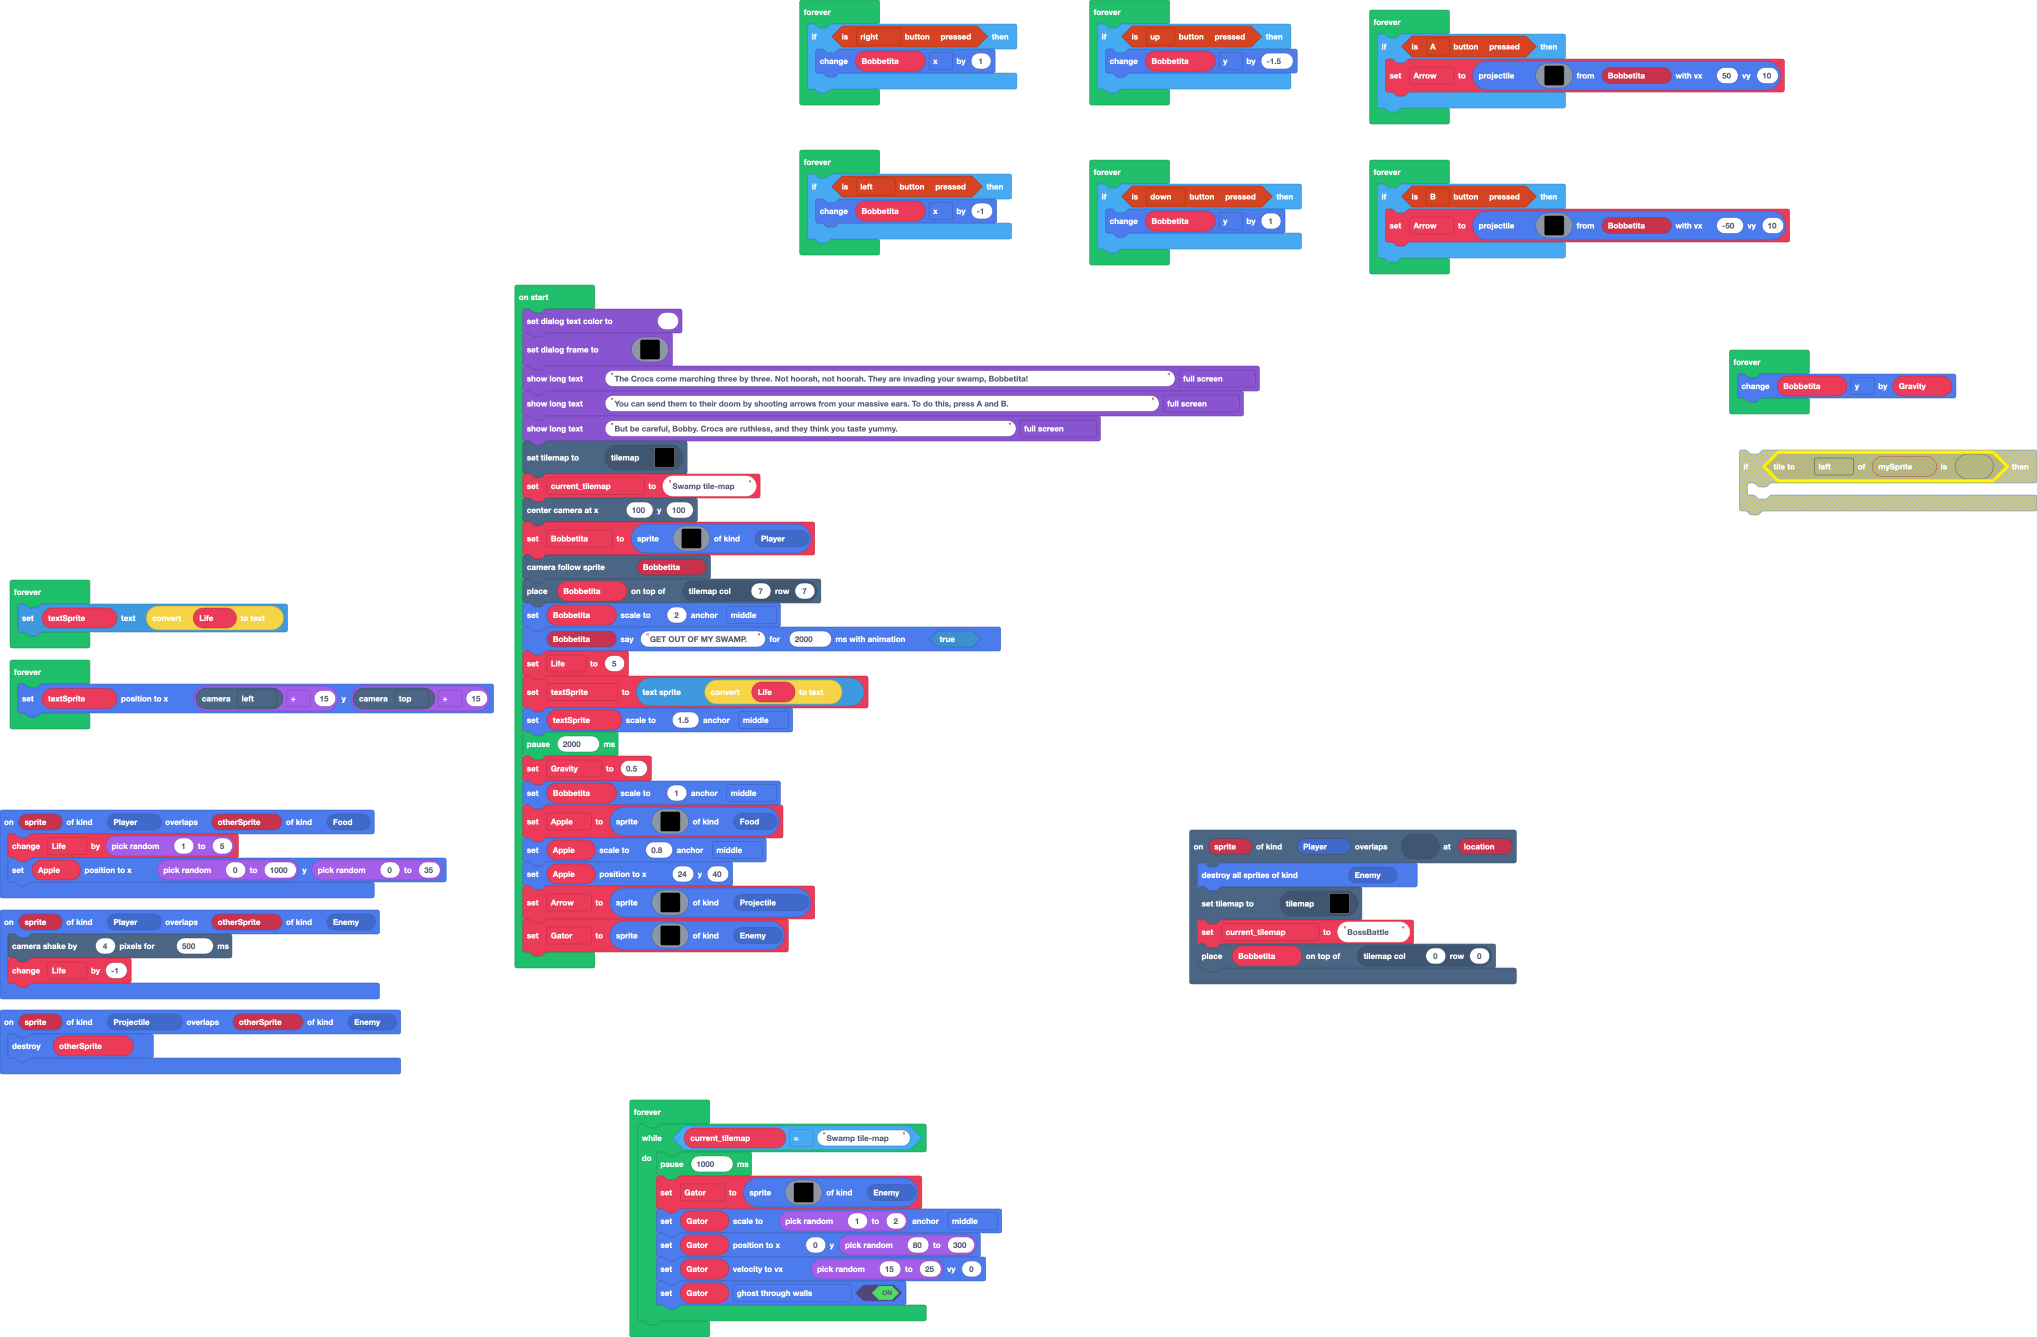
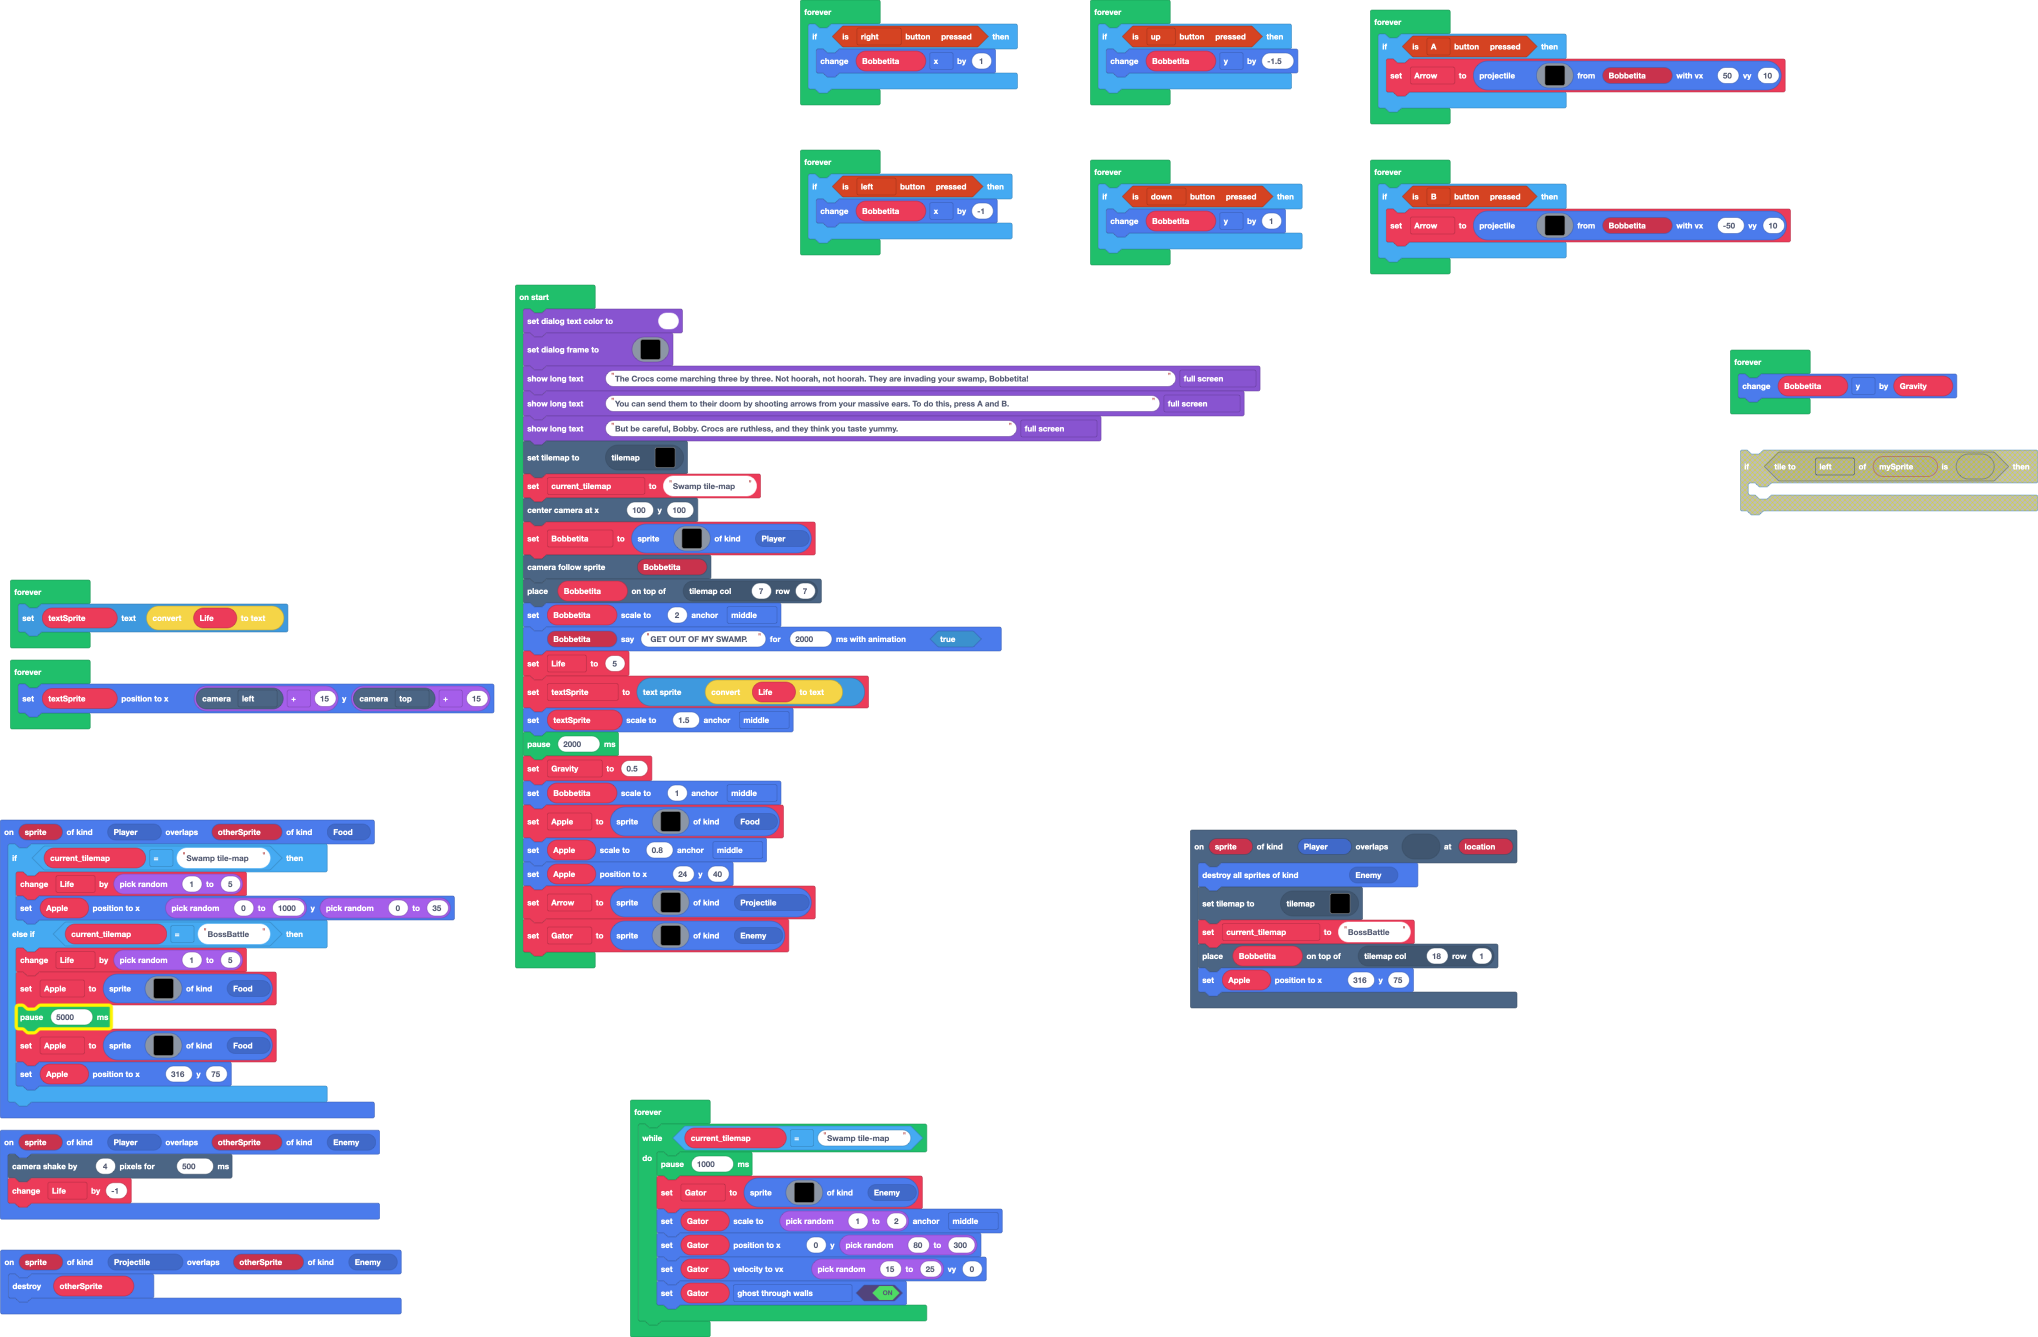
Update main.blocks, main.ts, tilemap.g.jres, tilemap.g.ts, images.g.jres, images.g.ts

diff --git a/tilemap.g.ts b/tilemap.g.ts
@@ -30,6 +30,8 @@ namespace myTiles {
     export const tile20 = image.ofBuffer(hex``);
     //% fixedInstance jres blockIdentity=images._tile
     export const tile1 = image.ofBuffer(hex``);
+    //% fixedInstance jres blockIdentity=images._tile
+    export const tile3 = image.ofBuffer(hex``);
 
     helpers._registerFactory("tilemap", function(name: string) {
         switch(helpers.stringTrim(name)) {
@@ -76,20 +78,20 @@ namespace myTiles {
 . . . . . . . . . . . . . . . . 
 `, [myTiles.transparency16], TileScale.Sixteen);
             case "BossBattle":
[2 lines of base64/hex data omitted]
 2 2 2 2 2 2 2 2 2 2 2 2 2 2 2 2 2 . . . 
+2 . . . . . . . . . . . . . . . 2 . . . 
 2 . . . . . . . . . . . . . . . 2 . . . 
 2 . . . . . . . . . . . . . . . 2 2 2 . 
 2 . . . . . . . . . . . . . . . . . . . 
-2 . . . . . . . . . . . . . . . . . . . 
-2 . . . . . . . . . . . . . . . 2 2 2 2 
+2 . . . . . . . . . . . . . . . . . 2 2 
 2 . . . . . . . . . . . . . . . . . . 2 
 2 . . . . . . . . . . . . . . . . . . 2 
 2 . . . . . . . . . . . . . . . . . . 2 
 2 . . . . . . . . . . . . . . . . . . . 
 2 . . . . . . . . . . . . . . . . . . . 
 2 2 2 2 2 2 2 2 2 2 2 2 2 2 2 2 2 2 2 2 
-`, [myTiles.transparency16,myTiles.tile2,myTiles.tile18,myTiles.tile19,myTiles.tile1], TileScale.Sixteen);
+`, [myTiles.transparency16,myTiles.tile2,myTiles.tile18,myTiles.tile19,myTiles.tile1,myTiles.tile4], TileScale.Sixteen);
         }
         return null;
     })
@@ -125,6 +127,8 @@ namespace myTiles {
             case "tile20":return tile20;
             case "myTile":
             case "tile1":return tile1;
+            case "myTile1":
+            case "tile3":return tile3;
         }
         return null;
     })

diff --git a/images.g.ts b/images.g.ts
@@ -220,25 +220,6 @@ f f f f f f f f f f f f f f f
 . . 5 . . . . . . . . . 5 5 . . 
 . . . . . . . . . . . . . 5 . . 
 `;
-            case "image6":
-            case "Apple":return img`
-e e e e e e e c 7 e e e e e e e 
-e e e e e e c 7 7 e e e e e e e 
-e e c e e e c 7 e 2 2 e e e e e 
-e c e e 2 2 c 6 e e 2 2 2 2 e e 
-e c e 2 2 e c c 2 4 5 4 2 2 e e 
-c e 2 2 2 2 2 2 2 4 5 5 2 2 2 e 
-c e 2 2 2 2 2 2 2 2 4 4 2 2 2 e 
-c e 2 2 2 2 2 2 2 2 2 2 2 2 2 e 
-c e 2 2 2 2 2 2 2 2 2 2 2 2 2 e 
-c e 2 2 2 2 2 2 2 2 2 2 2 4 2 e 
-c e 2 2 2 2 2 2 2 2 2 2 2 4 2 e 
-c e 2 2 2 2 2 2 2 2 2 2 2 4 2 e 
-e e e 2 2 2 2 2 2 2 2 2 4 2 e e 
-e 2 e e 2 2 2 2 2 2 4 4 2 e e e 
-e e 2 2 e e 4 4 4 4 2 e e e e e 
-e e e e 2 2 e e e e e e e e e e 
-`;
             case "image4":
             case "Alligators":return img`
 . . . . . . . . . . . . . . . . 
@@ -295,6 +276,25 @@ e e e e e e e e e e e e e e e .
 . . . . . . . . . . . . . . . . 
 . . . . . . . . . . . . . . . . 
 . . . . . . . . . . . . . . . . 
+`;
+            case "image6":
+            case "Apple":return img`
+. . . . . . . c 7 . . . . . . . 
+. . . . . e c 7 7 e e . . . . . 
+. . c e e e c 7 e 2 2 e e . . . 
+. c e e 2 2 c 6 e e 2 2 2 . . . 
+. c e 2 2 e c c 2 4 5 4 2 e . . 
+c e 2 2 2 2 2 2 2 4 5 5 2 2 e . 
+c e 2 2 2 2 2 2 2 2 4 4 2 2 2 . 
+c e 2 2 2 2 2 2 2 2 2 2 2 2 2 . 
+c e 2 2 2 2 2 2 2 2 2 2 2 2 2 . 
+c e 2 2 2 2 2 2 2 2 2 2 2 4 2 . 
+c e 2 2 2 2 2 2 2 2 2 2 2 4 e . 
+c e 2 2 2 2 2 2 2 2 2 2 2 4 e . 
+e e e 2 2 2 2 2 2 2 2 2 4 2 . . 
+. 2 e e 2 2 2 2 2 2 4 4 2 e . . 
+. . 2 2 e e 4 4 4 4 2 e e . . . 
+. . . . 2 2 e e e e e e . . . . 
 `;
         }
         return null;

diff --git a/main.ts b/main.ts
@@ -6,11 +6,20 @@ scene.onOverlapTile(SpriteKind.Player, assets.tile`myTile13`, function (sprite, 
     sprites.destroyAllSpritesOfKind(SpriteKind.Enemy)
     tiles.setCurrentTilemap(tilemap`BossBattle`)
     current_tilemap = "BossBattle"
-    tiles.placeOnTile(Bobbetita, tiles.getTileLocation(0, 0))
+    tiles.placeOnTile(Bobbetita, tiles.getTileLocation(18, 1))
+    Apple.setPosition(316, 75)
 })
 sprites.onOverlap(SpriteKind.Player, SpriteKind.Food, function (sprite, otherSprite) {
-    Life += randint(1, 5)
-    Apple.setPosition(randint(0, 1000), randint(0, 35))
+    if (current_tilemap == "Swamp tile-map") {
+        Life += randint(1, 5)
+        Apple.setPosition(randint(0, 1000), randint(0, 35))
+    } else if (current_tilemap == "BossBattle") {
+        Life += randint(1, 5)
+        Apple = sprites.create(assets.image`Abyss`, SpriteKind.Food)
+        pause(5000)
+        Apple = sprites.create(assets.image`Apple`, SpriteKind.Food)
+        Apple.setPosition(316, 75)
+    }
 })
 sprites.onOverlap(SpriteKind.Projectile, SpriteKind.Enemy, function (sprite, otherSprite) {
     otherSprite.destroy()
